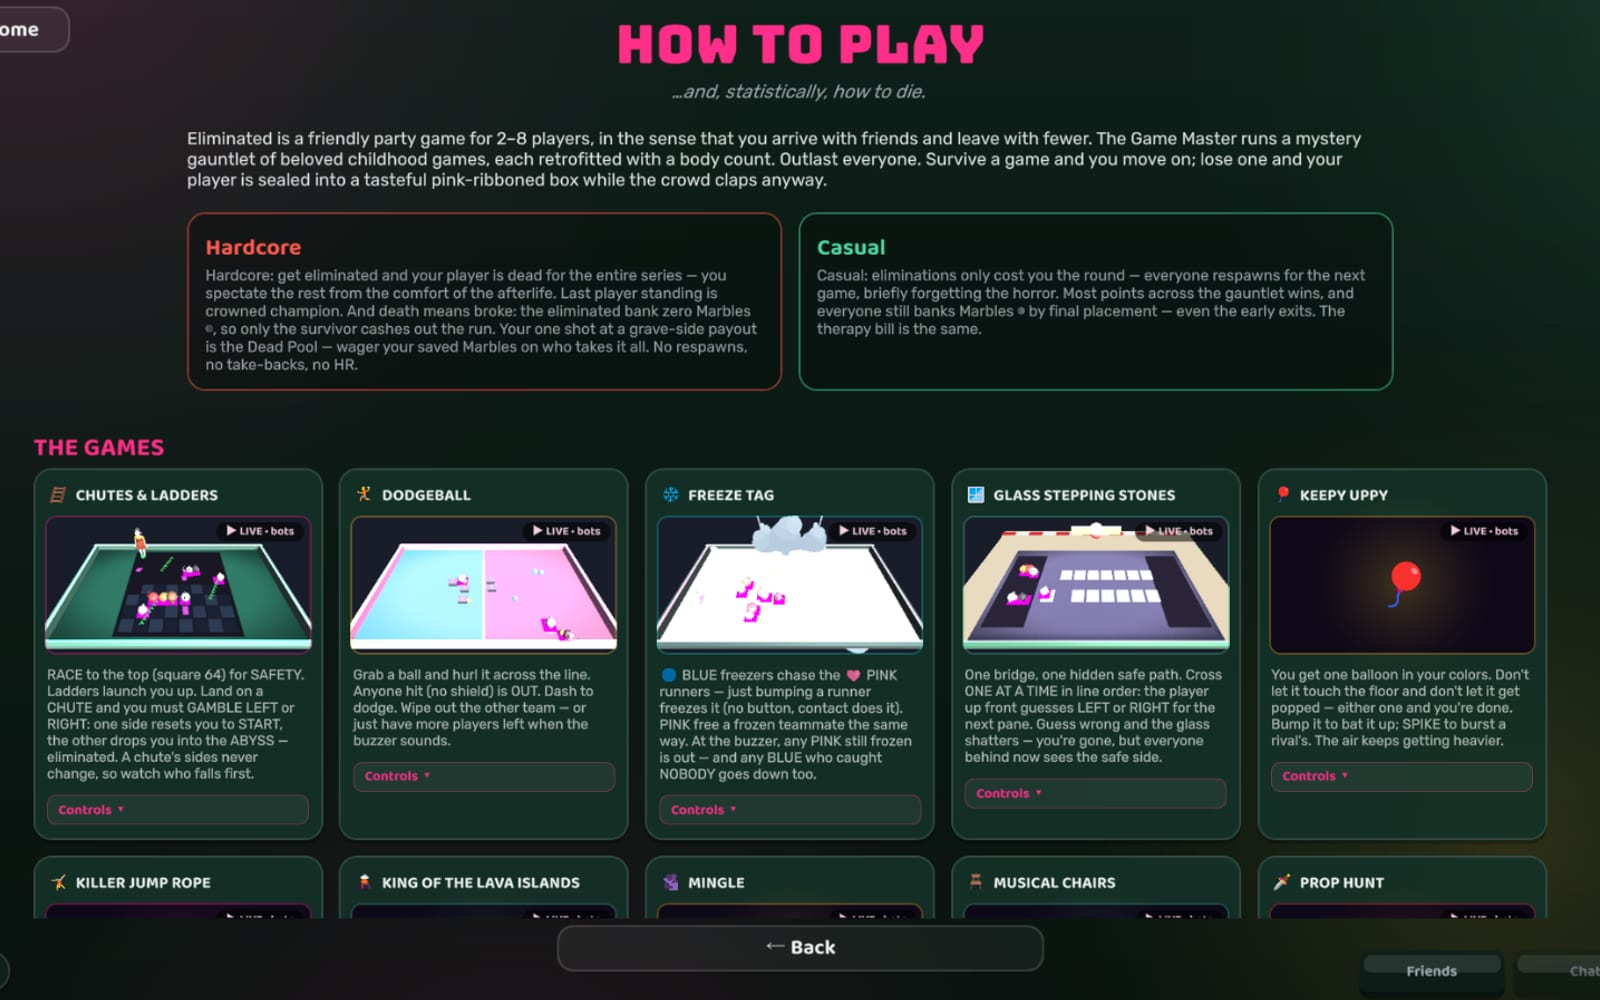
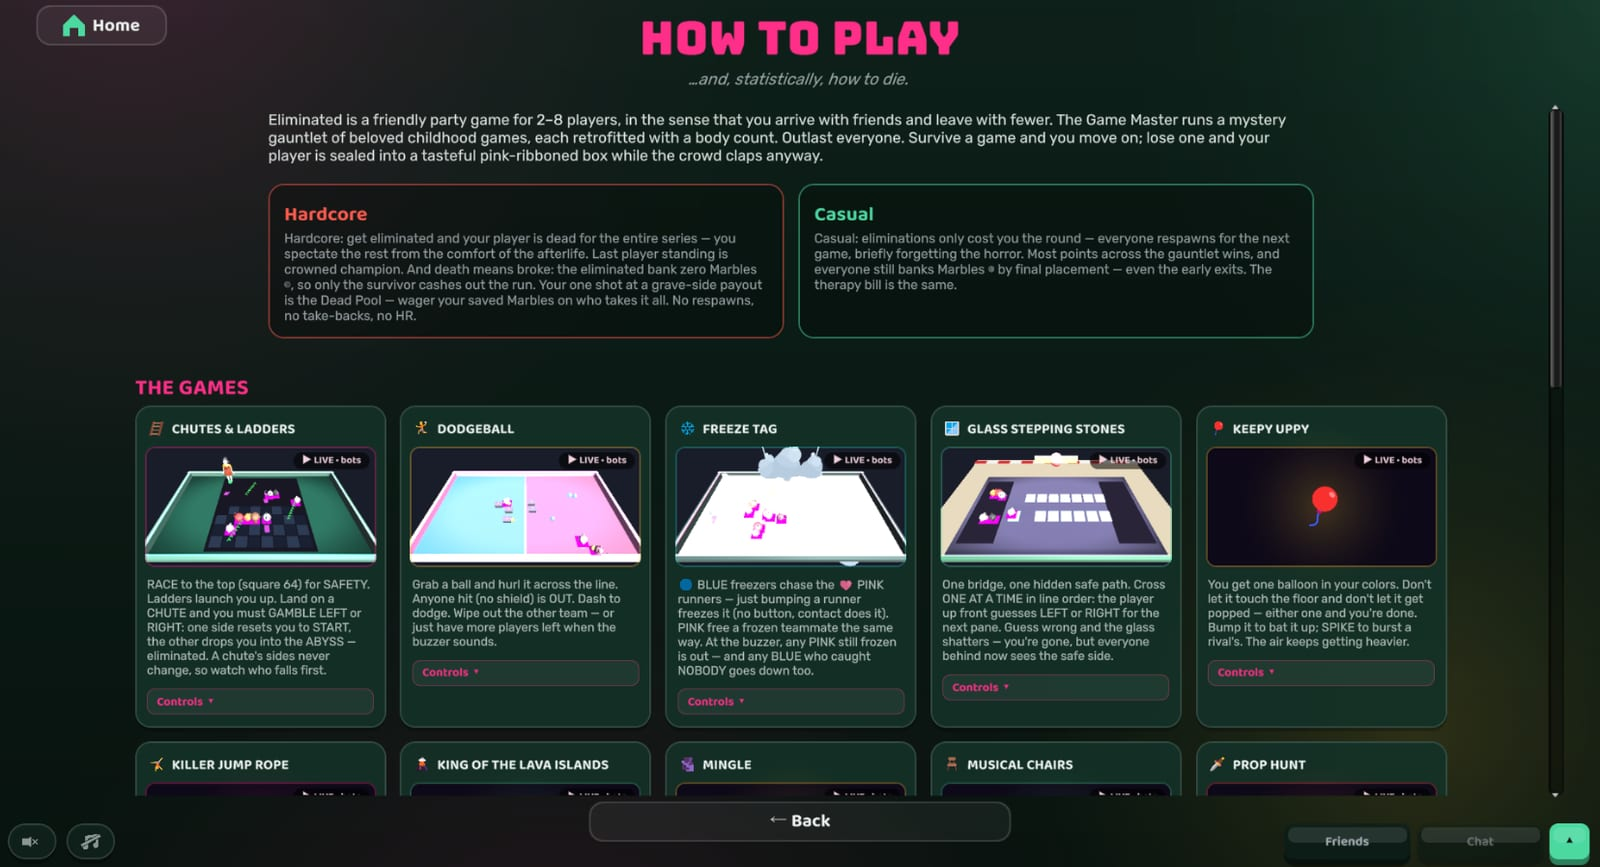
fix: the lightbox had no width, and two more books get pictures
The picture viewer came out a couple of hundred pixels wide whatever it
was a picture of — a <dialog> is width:fit-content and its only child
was `w-full`, a percentage of a box being sized by its own contents. It
has a real width now, so How to Play is readable rather than a postage
stamp. Click outside closes it, and there is an × in the corner, same as
the books.

The How to Play screenshot was also resized with fit:cover, which
cropped the bottom off a wall of text. Contained now, so the whole
screen survives.

Family Budgeting and Doing The Thing had no pictures; both are books on
the shelf that opened onto prose. Doing The Thing gets its list plus
adding a thing, plain and advanced.

"Tattoo flash" is "Tattoo designs". Flash is pre-drawn sheet work you
pick from; these were drawn for the person who then went and got them.

121 unit, 71 e2e. Same 5 pre-existing e2e failures.

diff --git a/components/media/Gallery.tsx b/components/media/Gallery.tsx
@@ -1,8 +1,8 @@
-'use client'
+"use client";
 
-import { useCallback, useEffect, useRef, useState } from 'react'
-import Image from 'next/image'
-import type { MediaItem } from '@/content/types'
+import { useCallback, useEffect, useRef, useState } from "react";
+import Image from "next/image";
+import type { MediaItem } from "@/content/types";
 
 /**
  * Thumbnail strip plus a native <dialog> lightbox. Native dialog gives focus
@@ -18,63 +18,74 @@ import type { MediaItem } from '@/content/types'
 export function Gallery({
   items,
   label,
-  variant = 'strip',
+  variant = "strip",
 }: {
-  items: MediaItem[]
-  label: string
-  variant?: 'strip' | 'wall'
+  items: MediaItem[];
+  label: string;
+  variant?: "strip" | "wall";
 }) {
-  const dialogRef = useRef<HTMLDialogElement>(null)
-  const [index, setIndex] = useState(0)
+  const dialogRef = useRef<HTMLDialogElement>(null);
+  const [index, setIndex] = useState(0);
 
   const open = useCallback((i: number, trigger: HTMLButtonElement) => {
-    setIndex(i)
+    setIndex(i);
     // Focus the invoking thumbnail explicitly before showModal(). Native
     // <dialog> restores focus to whatever was document.activeElement when
     // showModal() was called — that's the click target in Chrome/Firefox,
     // but Safari has historically not focused buttons on mouse click, so
     // without this the post-close focus target would be browser-dependent.
-    trigger.focus()
-    dialogRef.current?.showModal()
-  }, [])
+    trigger.focus();
+    dialogRef.current?.showModal();
+  }, []);
 
   const step = useCallback(
-    (delta: number) => setIndex((i) => (i + delta + items.length) % items.length),
-    [items.length]
-  )
+    (delta: number) =>
+      setIndex((i) => (i + delta + items.length) % items.length),
+    [items.length],
+  );
 
   useEffect(() => {
-    const el = dialogRef.current
-    if (!el) return
+    const el = dialogRef.current;
+    if (!el) return;
     const onKey = (e: KeyboardEvent) => {
-      if (e.key === 'ArrowRight') { e.preventDefault(); step(1) }
-      if (e.key === 'ArrowLeft') { e.preventDefault(); step(-1) }
-    }
-    el.addEventListener('keydown', onKey)
-    return () => el.removeEventListener('keydown', onKey)
-  }, [step])
+      if (e.key === "ArrowRight") {
+        e.preventDefault();
+        step(1);
+      }
+      if (e.key === "ArrowLeft") {
+        e.preventDefault();
+        step(-1);
+      }
+    };
+    el.addEventListener("keydown", onKey);
+    return () => el.removeEventListener("keydown", onKey);
+  }, [step]);
 
-  if (!items.length) return null
-  const current = items[index]!
-  const wall = variant === 'wall'
+  if (!items.length) return null;
+  const current = items[index]!;
+  const wall = variant === "wall";
 
   return (
     <>
-      <ul className={wall ? 'mt-4 flex flex-wrap gap-5' : 'mt-4 flex flex-wrap gap-3'}>
+      <ul
+        className={
+          wall ? "mt-4 flex flex-wrap gap-5" : "mt-4 flex flex-wrap gap-3"
+        }
+      >
         {items.map((m, i) => (
           <li key={m.src}>
             <button
               type="button"
               onClick={(e) => open(i, e.currentTarget)}
               className={[
-                'relative block overflow-hidden bg-surface-raised ring-1 ring-rule',
-                'focus-visible:outline-none focus-visible:ring-2 focus-visible:ring-accent',
+                "relative block overflow-hidden bg-surface-raised ring-1 ring-rule",
+                "focus-visible:outline-none focus-visible:ring-2 focus-visible:ring-accent",
                 wall
                   ? // A frame: a deep mount, a heavier edge, and a shadow so it
                     // sits off the wall. Lifts a touch when you go to look.
-                    'h-36 w-36 rounded-sm p-3 shadow-lg shadow-black/25 ring-4 transition-transform duration-200 ease-out hover:-translate-y-1 hover:ring-accent focus-visible:-translate-y-1 motion-reduce:transition-none motion-reduce:hover:translate-y-0'
-                  : 'h-24 w-24 rounded-lg p-1 transition-shadow hover:ring-accent',
-              ].join(' ')}
+                    "h-36 w-36 rounded-sm p-3 shadow-lg shadow-black/25 ring-4 transition-transform duration-200 ease-out hover:-translate-y-1 hover:ring-accent focus-visible:-translate-y-1 motion-reduce:transition-none motion-reduce:hover:translate-y-0"
+                  : "h-24 w-24 rounded-lg p-1 transition-shadow hover:ring-accent",
+              ].join(" ")}
             >
               {/* Square and contained. These were 2:1 and object-cover, which
                   centre-cropped every portrait piece into a letterbox of its
@@ -85,7 +96,7 @@ export function Gallery({
                 src={m.src}
                 alt={m.alt}
                 fill
-                sizes={wall ? '9rem' : '6rem'}
+                sizes={wall ? "9rem" : "6rem"}
                 className="object-contain"
               />
             </button>
@@ -96,26 +107,67 @@ export function Gallery({
       <dialog
         ref={dialogRef}
         aria-label={`${label} gallery`}
-        className="backdrop:bg-black/70 max-w-[min(90vw,72rem)] rounded-xl bg-surface-raised p-4 text-fg ring-1 ring-rule"
+        // Click outside to close, the same as every other dialog here. A click
+        // on the ::backdrop is reported against the dialog element itself, so
+        // this fires only out there — which is why the padding lives on the
+        // inner box and not on the dialog.
+        onClick={(e) => {
+          if (e.target === dialogRef.current) dialogRef.current?.close();
+        }}
+        // An explicit width, not just a max: a dialog is width:fit-content and
+        // its only child was `w-full` — a percentage of a box being sized by
+        // its own contents. The picture came out a couple of hundred pixels
+        // wide whatever it was a picture of.
+        className="w-[min(90vw,72rem)] max-w-none rounded-xl bg-surface-raised p-0 text-fg ring-1 ring-rule backdrop:bg-black/70"
       >
-        <div className="relative aspect-[16/10] w-full overflow-hidden rounded-lg">
-          <Image src={current.src} alt={current.alt} fill sizes="90vw" className="object-contain" />
-        </div>
-        <p className="mt-3 font-sans text-sm text-fg-muted">{current.caption ?? current.alt}</p>
-        <div className="mt-3 flex items-center justify-between gap-3">
-          <div className="flex gap-2">
-            <button type="button" onClick={() => step(-1)} className="rounded-full px-3 py-1.5 font-sans text-sm ring-1 ring-rule hover:text-accent hover:ring-accent">
-              ← Previous
-            </button>
-            <button type="button" onClick={() => step(1)} className="rounded-full px-3 py-1.5 font-sans text-sm ring-1 ring-rule hover:text-accent hover:ring-accent">
-              Next →
+        <button
+          type="button"
+          onClick={() => dialogRef.current?.close()}
+          aria-label="Close"
+          className="absolute right-3 top-3 z-10 flex h-9 w-9 items-center justify-center rounded-full bg-surface text-xl leading-none text-fg-muted ring-1 ring-rule transition-colors hover:text-accent hover:ring-accent focus-visible:outline-none focus-visible:ring-2 focus-visible:ring-accent"
+        >
+          <span aria-hidden="true">×</span>
+        </button>
+        <div className="p-4">
+          <div className="relative aspect-[16/10] w-full overflow-hidden rounded-lg">
+            <Image
+              src={current.src}
+              alt={current.alt}
+              fill
+              sizes="90vw"
+              className="object-contain"
+            />
+          </div>
+          <p className="mt-3 font-sans text-sm text-fg-muted">
+            {current.caption ?? current.alt}
+          </p>
+          <div className="mt-3 flex items-center justify-between gap-3">
+            <div className="flex gap-2">
+              <button
+                type="button"
+                onClick={() => step(-1)}
+                className="rounded-full px-3 py-1.5 font-sans text-sm ring-1 ring-rule hover:text-accent hover:ring-accent"
+              >
+                ← Previous
+              </button>
+              <button
+                type="button"
+                onClick={() => step(1)}
+                className="rounded-full px-3 py-1.5 font-sans text-sm ring-1 ring-rule hover:text-accent hover:ring-accent"
+              >
+                Next →
+              </button>
+            </div>
+            <button
+              type="button"
+              onClick={() => dialogRef.current?.close()}
+              className="rounded-full bg-fill px-4 py-1.5 font-sans text-sm font-semibold text-fill-fg"
+            >
+              Close
             </button>
           </div>
-          <button type="button" onClick={() => dialogRef.current?.close()} className="rounded-full bg-accent px-4 py-1.5 font-sans text-sm font-semibold text-fill-fg">
-            Close
-          </button>
         </div>
       </dialog>
     </>
-  )
+  );
 }

diff --git a/tests/unit/Gallery.test.tsx b/tests/unit/Gallery.test.tsx
@@ -66,11 +66,38 @@ describe('Gallery', () => {
     expect(within(dialog).getByAltText('The castle screen')).toBeInTheDocument()
   })
 
-  it('the Close button calls dialog.close()', async () => {
+  it('offers two ways out, and both call dialog.close()', async () => {
+    // There are two Close buttons on purpose: the × in the corner, so you can
+    // get out without reading to the bottom, and the one in the footer beside
+    // the Previous/Next controls.
     const user = userEvent.setup()
     render(<Gallery items={items} label="Kingdoms & Crowns" />)
     await user.click(screen.getByRole('button', { name: /The castle screen/ }))
-    await user.click(screen.getByRole('button', { name: 'Close' }))
+
+    const ways = screen.getAllByRole('button', { name: 'Close' })
+    expect(ways).toHaveLength(2)
+    for (const way of ways) {
+      await user.click(way)
+      expect(HTMLDialogElement.prototype.close).toHaveBeenCalled()
+    }
+  })
+
+  it('closes when you click outside the picture', async () => {
+    // The click lands on the ::backdrop, which the platform reports against
+    // the dialog element itself. Anything inside must NOT close it, which is
+    // why the dialog carries no padding of its own.
+    //
+    // The spy is installed once for the file, so clear it: the assertion below
+    // is about this test's clicks, not every click the suite has made.
+    vi.mocked(HTMLDialogElement.prototype.close).mockClear()
+    render(<Gallery items={items} label="Kingdoms & Crowns" />)
+    fireEvent.click(screen.getByRole('button', { name: /The castle screen/ }))
+    const dialog = document.querySelector('dialog')!
+
+    fireEvent.click(dialog.querySelector('img')!)
+    expect(HTMLDialogElement.prototype.close).not.toHaveBeenCalled()
+
+    fireEvent.click(dialog)
     expect(HTMLDialogElement.prototype.close).toHaveBeenCalled()
   })
 

diff --git a/content/projects.ts b/content/projects.ts
@@ -341,6 +341,12 @@ export const projects: Project[] = [
       'Budgeting tools are built around the calendar month, which is not when money actually arrives.',
     built:
       'A budgeting app organised by pay period instead, covering accounts, expenses, debts and school funds.',
+    media: {
+      hero: {
+        src: '/media/family-budgeting/hero.jpg',
+        alt: 'The Budget dashboard: a four-week projection of income, expenses and surplus, with cash flow, accounts, expenses and debts beneath',
+      },
+    },
     stack: ['Next.js', 'TypeScript', 'SQLite'],
     isPersonal: true,
   },
@@ -356,6 +362,19 @@ export const projects: Project[] = [
     built:
       'A zero-friction list that asks whether you did the thing. Snooze an item enough times and it stops asking yes-or-no and starts asking what is getting in the way, surfacing the real blocker behind a stalled task.',
     outcome: 'Runs locally for my family, and they actually use it.',
+    media: {
+      hero: {
+        src: '/media/doing-the-thing/hero.jpg',
+        alt: 'Doing The Thing: each chore as a card asking whether you did it, with “Did the thing”, “Doing the thing” and “Can’t right now”, and a done list beside it',
+      },
+      gallery: [
+        { src: '/media/doing-the-thing/add.jpg', alt: 'Adding a thing to the list' },
+        {
+          src: '/media/doing-the-thing/add-advanced.jpg',
+          alt: 'The advanced options when adding a thing',
+        },
+      ],
+    },
     stack: ['Next.js', 'TypeScript'],
     isPersonal: true,
   },

diff --git a/content/room.ts b/content/room.ts
@@ -154,7 +154,9 @@ export const room = {
     hint: 'A volume per medium — take one down.',
   },
   tattoo: {
-    heading: 'Tattoo flash',
+    // Not "flash": flash is pre-drawn sheet work you pick from. These were
+    // drawn for the person who then went and got them.
+    heading: 'Tattoo designs',
     lede: 'Designs I have drawn for people who went and got them tattooed. There are several of these walking around out there, which I still find slightly unbelievable.',
   },
   offTheClock: {
